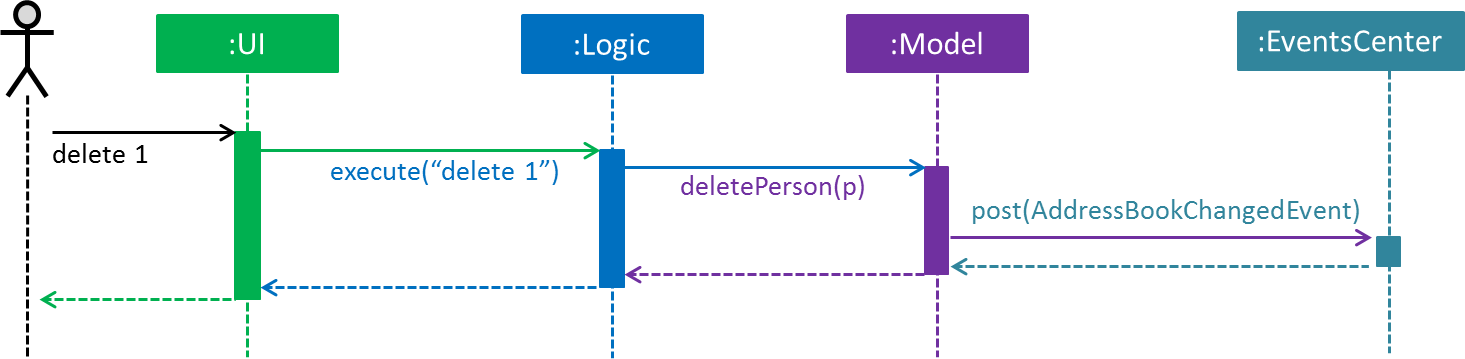
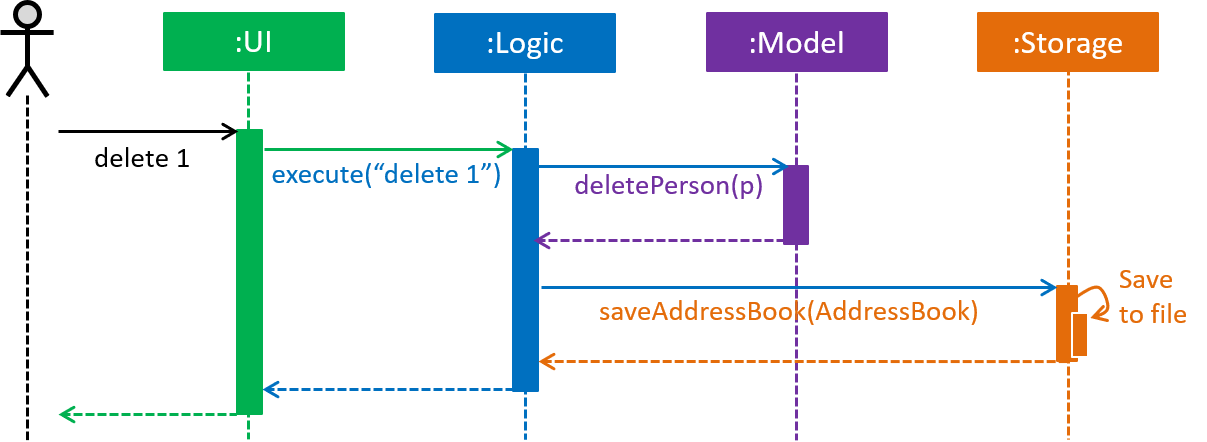
Rebuild pages at f7c0be28c2bfabde2296f2157ea46e1927106de5

diff --git a/DeveloperGuide.html b/DeveloperGuide.html
@@ -345,13 +345,11 @@ The <code>.pptx</code> files used to create diagrams in this document can be fou
 </ul>
 </div>
 <div class="paragraph">
-<p><a href="#Design-Commons"><strong><code>Commons</code></strong></a> represents a collection of classes used by multiple other components. Two of those classes play important roles at the architecture level.</p>
+<p><a href="#Design-Commons"><strong><code>Commons</code></strong></a> represents a collection of classes used by multiple other components.
+The following class plays an important role at the architecture level:</p>
 </div>
 <div class="ulist">
 <ul>
-<li>
-<p><code>EventsCenter</code> : This class (written using <a href="https://github.com/google/guava/wiki/EventBusExplained">Google&#8217;s Event Bus library</a>) is used by components to communicate with other components using events (i.e. a form of <em>Event Driven</em> design)</p>
-</li>
 <li>
 <p><code>LogsCenter</code> : Used by many classes to write log messages to the App&#8217;s log file.</p>
 </li>
@@ -398,48 +396,15 @@ The <code>.pptx</code> files used to create diagrams in this document can be fou
 </div>
 <div class="title">Figure 2. Class Diagram of the Logic Component</div>
 </div>
-<h4 id="events-driven-nature-of-the-design" class="discrete">Events-Driven nature of the design</h4>
+<h4 id="how-the-architecture-components-interact-with-each-other" class="discrete">How the architecture components interact with each other</h4>
 <div class="paragraph">
-<p>The <em>Sequence Diagram</em> below shows how the components interact for the scenario where the user issues the command <code>delete 1</code>.</p>
+<p>The <em>Sequence Diagram</em> below shows how the components interact with each other for the scenario where the user issues the command <code>delete 1</code>.</p>
 </div>
 <div class="imageblock">
 <div class="content">
 <img src="images/SDforDeletePerson.png" alt="SDforDeletePerson" width="800">
 </div>
-<div class="title">Figure 3. Component interactions for <code>delete 1</code> command (part 1)</div>
-</div>
-<div class="admonitionblock note">
-<table>
-<tr>
-<td class="icon">
-<i class="fa icon-note" title="Note"></i>
-</td>
-<td class="content">
-Note how the <code>Model</code> simply raises a <code>AddressBookChangedEvent</code> when the Address Book data are changed, instead of asking the <code>Storage</code> to save the updates to the hard disk.
-</td>
-</tr>
-</table>
-</div>
-<div class="paragraph">
-<p>The diagram below shows how the <code>EventsCenter</code> reacts to that event, which eventually results in the updates being saved to the hard disk and the status bar of the UI being updated to reflect the 'Last Updated' time.</p>
-</div>
-<div class="imageblock">
-<div class="content">
-<img src="images/SDforDeletePersonEventHandling.png" alt="SDforDeletePersonEventHandling" width="800">
-</div>
-<div class="title">Figure 4. Component interactions for <code>delete 1</code> command (part 2)</div>
-</div>
-<div class="admonitionblock note">
-<table>
-<tr>
-<td class="icon">
-<i class="fa icon-note" title="Note"></i>
-</td>
-<td class="content">
-Note how the event is propagated through the <code>EventsCenter</code> to the <code>Storage</code> and <code>UI</code> without <code>Model</code> having to be coupled to either of them. This is an example of how this Event Driven approach helps us reduce direct coupling between components.
-</td>
-</tr>
-</table>
+<div class="title">Figure 3. Component interactions for <code>delete 1</code> command</div>
 </div>
 <div class="paragraph">
 <p>The sections below give more details of each component.</p>
@@ -451,7 +416,7 @@ Note how the event is propagated through the <code>EventsCenter</code> to the <c
 <div class="content">
 <img src="images/UiClassDiagram.png" alt="UiClassDiagram" width="800">
 </div>
-<div class="title">Figure 5. Structure of the UI Component</div>
+<div class="title">Figure 4. Structure of the UI Component</div>
 </div>
 <div class="paragraph">
 <p><strong>API</strong> : <a href="https://github.com/se-edu/addressbook-level4/tree/master/src/main/java/seedu/address/ui/Ui.java"><code>Ui.java</code></a></p>
@@ -471,10 +436,7 @@ Note how the event is propagated through the <code>EventsCenter</code> to the <c
 <p>Executes user commands using the <code>Logic</code> component.</p>
 </li>
 <li>
-<p>Binds itself to some data in the <code>Model</code> so that the UI can auto-update when data in the <code>Model</code> change.</p>
-</li>
-<li>
-<p>Responds to events raised from various parts of the App and updates the UI accordingly.</p>
+<p>Listens for changes to <code>Model</code> data so that the UI can be updated with the modified data.</p>
 </li>
 </ul>
 </div>
@@ -485,7 +447,7 @@ Note how the event is propagated through the <code>EventsCenter</code> to the <c
 <div class="content">
 <img src="images/LogicClassDiagram.png" alt="LogicClassDiagram" width="800">
 </div>
-<div class="title">Figure 6. Structure of the Logic Component</div>
+<div class="title">Figure 5. Structure of the Logic Component</div>
 </div>
 <div class="paragraph">
 <p><strong>API</strong> :
@@ -500,10 +462,13 @@ Note how the event is propagated through the <code>EventsCenter</code> to the <c
 <p>This results in a <code>Command</code> object which is executed by the <code>LogicManager</code>.</p>
 </li>
 <li>
-<p>The command execution can affect the <code>Model</code> (e.g. adding a person) and/or raise events.</p>
+<p>The command execution can affect the <code>Model</code> (e.g. adding a person).</p>
 </li>
 <li>
 <p>The result of the command execution is encapsulated as a <code>CommandResult</code> object which is passed back to the <code>Ui</code>.</p>
+</li>
+<li>
+<p>In addition, the <code>CommandResult</code> object can also instruct the <code>Ui</code> to perform certain actions, such as displaying help to the user.</p>
 </li>
 </ol>
 </div>
@@ -514,7 +479,7 @@ Note how the event is propagated through the <code>EventsCenter</code> to the <c
 <div class="content">
 <img src="images/DeletePersonSdForLogic.png" alt="DeletePersonSdForLogic" width="800">
 </div>
-<div class="title">Figure 7. Interactions Inside the Logic Component for the <code>delete 1</code> Command</div>
+<div class="title">Figure 6. Interactions Inside the Logic Component for the <code>delete 1</code> Command</div>
 </div>
 </div>
 <div class="sect2">
@@ -523,7 +488,7 @@ Note how the event is propagated through the <code>EventsCenter</code> to the <c
 <div class="content">
 <img src="images/ModelClassDiagram.png" alt="ModelClassDiagram" width="800">
 </div>
-<div class="title">Figure 8. Structure of the Model Component</div>
+<div class="title">Figure 7. Structure of the Model Component</div>
 </div>
 <div class="paragraph">
 <p><strong>API</strong> : <a href="https://github.com/se-edu/addressbook-level4/tree/master/src/main/java/seedu/address/model/Model.java"><code>Model.java</code></a></p>
@@ -568,7 +533,7 @@ As a more OOP model, we can store a <code>Tag</code> list in <code>Address Book<
 <div class="content">
 <img src="images/StorageClassDiagram.png" alt="StorageClassDiagram" width="800">
 </div>
-<div class="title">Figure 9. Structure of the Storage Component</div>
+<div class="title">Figure 8. Structure of the Storage Component</div>
 </div>
 <div class="paragraph">
 <p><strong>API</strong> : <a href="https://github.com/se-edu/addressbook-level4/tree/master/src/main/java/seedu/address/storage/Storage.java"><code>Storage.java</code></a></p>
@@ -914,7 +879,7 @@ Alternatively, you can download the AsciiDoc plugin for IntelliJ, which allows y
 <div class="content">
 <img src="images/chrome_save_as_pdf.png" alt="chrome save as pdf" width="300">
 </div>
-<div class="title">Figure 10. Saving documentation as PDF files in Chrome</div>
+<div class="title">Figure 9. Saving documentation as PDF files in Chrome</div>
 </div>
 </div>
 <div class="sect2">
@@ -2309,4 +2274,4 @@ Expected: Similar to previous.</p>
 </div>
 </div>
 </div>
-</div></div><div id="footer"><div class="container"><div id="footer-text">Last updated 2018-12-14 11:23:31 UTC</div></div></div></body></html>
+</div></div><div id="footer"><div class="container"><div id="footer-text">Last updated 2019-01-06 15:43:39 UTC</div></div></div></body></html>

diff --git a/LearningOutcomes.html b/LearningOutcomes.html
@@ -55,13 +55,17 @@
 <h2 id="use-event-driven-programming-code-lo-eventdriven-code"><a class="link" href="#use-event-driven-programming-code-lo-eventdriven-code">2. Use Event-Driven Programming <code>[LO-EventDriven]</code></a></h2>
 <div class="sectionbody">
 <div class="paragraph">
-<p>Note how the <a href="DeveloperGuide.html#architecture">Developer Guide</a> uses events to communicate with components without needing a direct coupling. Also note how the <a href="https://github.com/se-edu/addressbook-level4/tree/master/src/main/java/seedu/address/commons/core/index/EventsCenter.java"><code>EventsCenter.java</code></a> acts as an event dispatcher to facilitate communication between event creators and event consumers.</p>
+<p>The JavaFX framework, which this code base uses for its UI, uses <em>events</em> to communicate user input (such as mouse movement and button presses) to interested <em>event consumers</em>.
+The JavaFX event loop acts as an <em>event dispatcher</em> to transmit events to event consumers.</p>
 </div>
 <div class="paragraph">
 <p><strong>Resources</strong></p>
 </div>
 <div class="ulist">
 <ul>
+<li>
+<p><a href="https://docs.oracle.com/javase/8/javafx/events-tutorial/events.htm">JavaFX: Handling Events</a></p>
+</li>
 <li>
 <p><a href="https://se-edu.github.io/se-book/architecture/architecturalStyles/eventDriven/">se-edu/se-book: Design: Architecture: Architecture Styles: Event-Driven Architectural Style</a></p>
 </li>
@@ -430,7 +434,10 @@ class gives some examples of how to use <em>Equivalence Partitions</em>, <em>Bou
 <p><strong>Command Pattern</strong> : The <a href="https://github.com/se-edu/addressbook-level4/tree/master/src/main/java/seedu/address/logic/commands/Command.java"><code>Command.java</code></a> and its sub classes implement the Command Pattern.</p>
 </li>
 <li>
-<p><strong>Observer Pattern</strong> : The <a href="DeveloperGuide.html#events-driven-nature-of-the-design">event driven mechanism</a> used by this code base employs the Observer pattern. For example, objects that are interested in events need to have the <code>@Subscribe</code> annotation in the class (this is similar to implementing an <code>&lt;&lt;Observer&gt;&gt;</code> interface) and register with the <code>EventsCenter</code>. When something noteworthy happens, an event is raised and the <code>EventsCenter</code> notifies all relevant subscribers. Unlike in the Observer pattern in which the <code>&lt;&lt;Observable&gt;&gt;</code> class is notifying all <code>&lt;&lt;Observer&gt;&gt;</code> objects, here the <code>&lt;&lt;Observable&gt;&gt;</code> classes simply raises an event and the <code>EventsCenter</code> takes care of the notifications.</p>
+<p><strong>Observer Pattern</strong>: The code base uses JavaFX&#8217;s <a href="https://docs.oracle.com/javase/8/javafx/api/javafx/beans/value/ObservableValue.html"><code>ObservableValue</code></a> interface to allow objects to watch for changes in data.
+This interface is an implementation of the Observer pattern.
+Objects that are interested in changes to an <code>ObservableValue</code> can register a listener via <code>ObservableValue#addListener(&#8230;&#8203;)</code>.
+When the value represented by the <code>ObservableValue</code> changes, it will notify all registered listeners.</p>
 </li>
 <li>
 <p><strong>MVC Pattern</strong> :</p>
@@ -542,4 +549,4 @@ class gives some examples of how to use <em>Equivalence Partitions</em>, <em>Bou
 </div>
 </div>
 </div>
-</div></div><div id="footer"><div class="container"><div id="footer-text">Last updated 2018-12-14 11:23:31 UTC</div></div></div></body></html>
+</div></div><div id="footer"><div class="container"><div id="footer-text">Last updated 2019-01-06 15:43:39 UTC</div></div></div></body></html>

diff --git a/team/johndoe.html b/team/johndoe.html
@@ -452,4 +452,4 @@ If the <code>currentStatePointer</code> is at index <code>addressBookStateList.s
 <p><em>{Optionally, you may include other projects in your portfolio.}</em></p>
 </div>
 </div>
-</div></div><div id="footer"><div class="container"><div id="footer-text">Last updated 2018-12-14 11:23:31 UTC</div></div></div></body></html>
+</div></div><div id="footer"><div class="container"><div id="footer-text">Last updated 2019-01-06 15:43:40 UTC</div></div></div></body></html>

diff --git a/ContactUs.html b/ContactUs.html
@@ -12,4 +12,4 @@
 <p><strong>Email us</strong> : You can also reach us at <code>damith [at] comp.nus.edu.sg</code></p>
 </li>
 </ul>
-</div></div><div id="footer"><div class="container"><div id="footer-text">Last updated 2018-12-14 11:23:31 UTC</div></div></div></body></html>
+</div></div><div id="footer"><div class="container"><div id="footer-text">Last updated 2019-01-06 15:43:39 UTC</div></div></div></body></html>

diff --git a/UsingGradle.html b/UsingGradle.html
@@ -255,4 +255,4 @@ See <code>build.gradle</code> &#8594; <code>allprojects</code> &#8594; <code>dep
 </ul>
 </div>
 </div>
-</div></div><div id="footer"><div class="container"><div id="footer-text">Last updated 2018-12-14 11:23:31 UTC</div></div></div></body></html>
+</div></div><div id="footer"><div class="container"><div id="footer-text">Last updated 2019-01-06 15:43:39 UTC</div></div></div></body></html>

diff --git a/UsingNetlify.html b/UsingNetlify.html
@@ -123,4 +123,4 @@ The publish directory is the directory in which the built HTML documentation res
 </ol>
 </div>
 </div>
-</div></div><div id="footer"><div class="container"><div id="footer-text">Last updated 2018-12-14 11:23:31 UTC</div></div></div></body></html>
+</div></div><div id="footer"><div class="container"><div id="footer-text">Last updated 2019-01-06 15:43:39 UTC</div></div></div></body></html>

diff --git a/UsingCoveralls.html b/UsingCoveralls.html
@@ -96,4 +96,4 @@ If you have not set up Travis CI, see <a href="UsingTravis.html">UsingTravis.ado
 </ol>
 </div>
 </div>
-</div></div><div id="footer"><div class="container"><div id="footer-text">Last updated 2018-12-14 11:23:31 UTC</div></div></div></body></html>
+</div></div><div id="footer"><div class="container"><div id="footer-text">Last updated 2019-01-06 15:43:39 UTC</div></div></div></body></html>

diff --git a/UsingTravis.html b/UsingTravis.html
@@ -277,4 +277,4 @@ Suggested change: Remove the codacy badge from <code>README</code>.</p>
 </div>
 </div>
 </div>
-</div></div><div id="footer"><div class="container"><div id="footer-text">Last updated 2018-12-14 11:23:31 UTC</div></div></div></body></html>
+</div></div><div id="footer"><div class="container"><div id="footer-text">Last updated 2019-01-06 15:43:39 UTC</div></div></div></body></html>

diff --git a/UsingCheckstyle.html b/UsingCheckstyle.html
@@ -91,4 +91,4 @@ Restart the IDE to complete the installation.</p>
 </ul>
 </div>
 </div>
-</div></div><div id="footer"><div class="container"><div id="footer-text">Last updated 2018-12-14 11:23:31 UTC</div></div></div></body></html>
+</div></div><div id="footer"><div class="container"><div id="footer-text">Last updated 2019-01-06 15:43:39 UTC</div></div></div></body></html>

diff --git a/HelpWindow.html b/HelpWindow.html
@@ -519,4 +519,4 @@ e.g.<code>select 2</code></p>
 </ul>
 </div>
 </div>
-</div></div><div id="footer"><div class="container"><div id="footer-text">Last updated 2018-12-14 11:23:31 UTC</div></div></div></body></html>
+</div></div><div id="footer"><div class="container"><div id="footer-text">Last updated 2019-01-06 15:43:39 UTC</div></div></div></body></html>

diff --git a/UserGuide.html b/UserGuide.html
@@ -519,4 +519,4 @@ e.g.<code>select 2</code></p>
 </ul>
 </div>
 </div>
-</div></div><div id="footer"><div class="container"><div id="footer-text">Last updated 2018-12-14 11:23:31 UTC</div></div></div></body></html>
+</div></div><div id="footer"><div class="container"><div id="footer-text">Last updated 2019-01-06 15:43:39 UTC</div></div></div></body></html>

diff --git a/AboutUs.html b/AboutUs.html
@@ -93,4 +93,4 @@ Responsibilities: UI</p>
 <hr>
 </div>
 </div>
-</div></div><div id="footer"><div class="container"><div id="footer-text">Last updated 2018-12-14 11:23:31 UTC</div></div></div></body></html>
+</div></div><div id="footer"><div class="container"><div id="footer-text">Last updated 2019-01-06 15:43:39 UTC</div></div></div></body></html>
